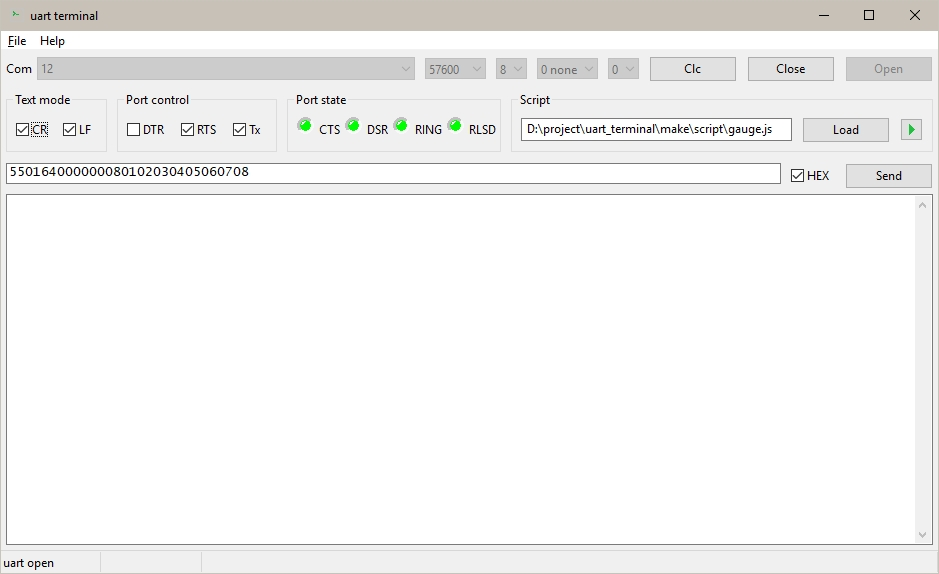
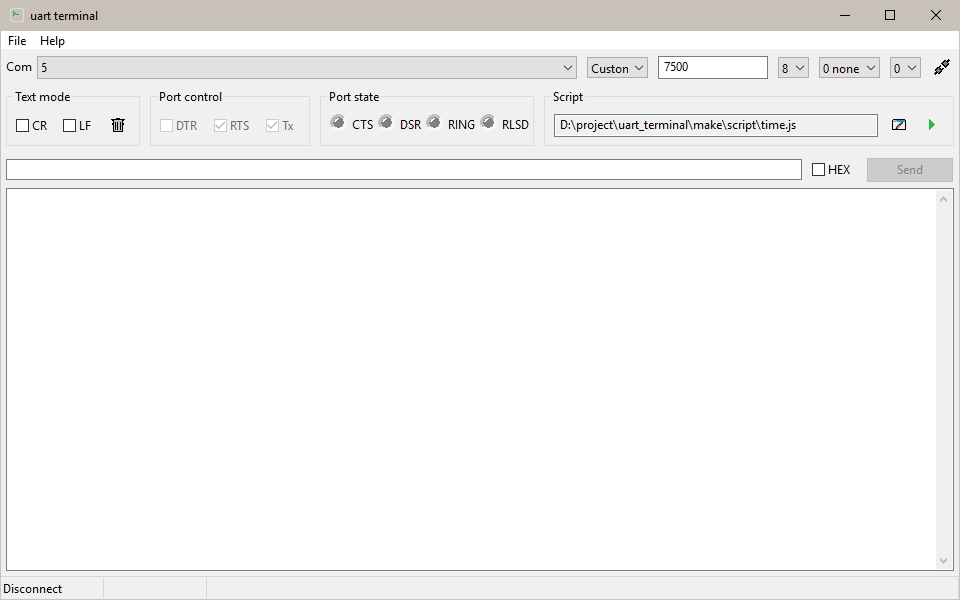
Update project documentation. Add editor documentation.

Changed region(s): [[0.0, 0.0, 1.0, 0.3554], [0.0, 0.9477, 1.0, 1.0]]

diff --git a/README.md b/README.md
@@ -13,6 +13,7 @@ Supported function:
 - Control DTR, RTS and Tx(break) line
 - Read CTS, DSR, RING and RLSD
 - Load JavaScript
+- Edit JavaScript
 
 The project is based on:
 
@@ -29,4 +30,5 @@ Supported platforms:
 ## Screenshot
 
 ![](https://simapetr.github.io/uart_terminal/docs/img/uart_terminal.jpg)
+![](https://simapetr.github.io/uart_terminal/docs/img/uart_terminal_editor.jpg)
 ![](https://simapetr.github.io/uart_terminal/docs/img/uart_terminal_javascript_example.jpg)
